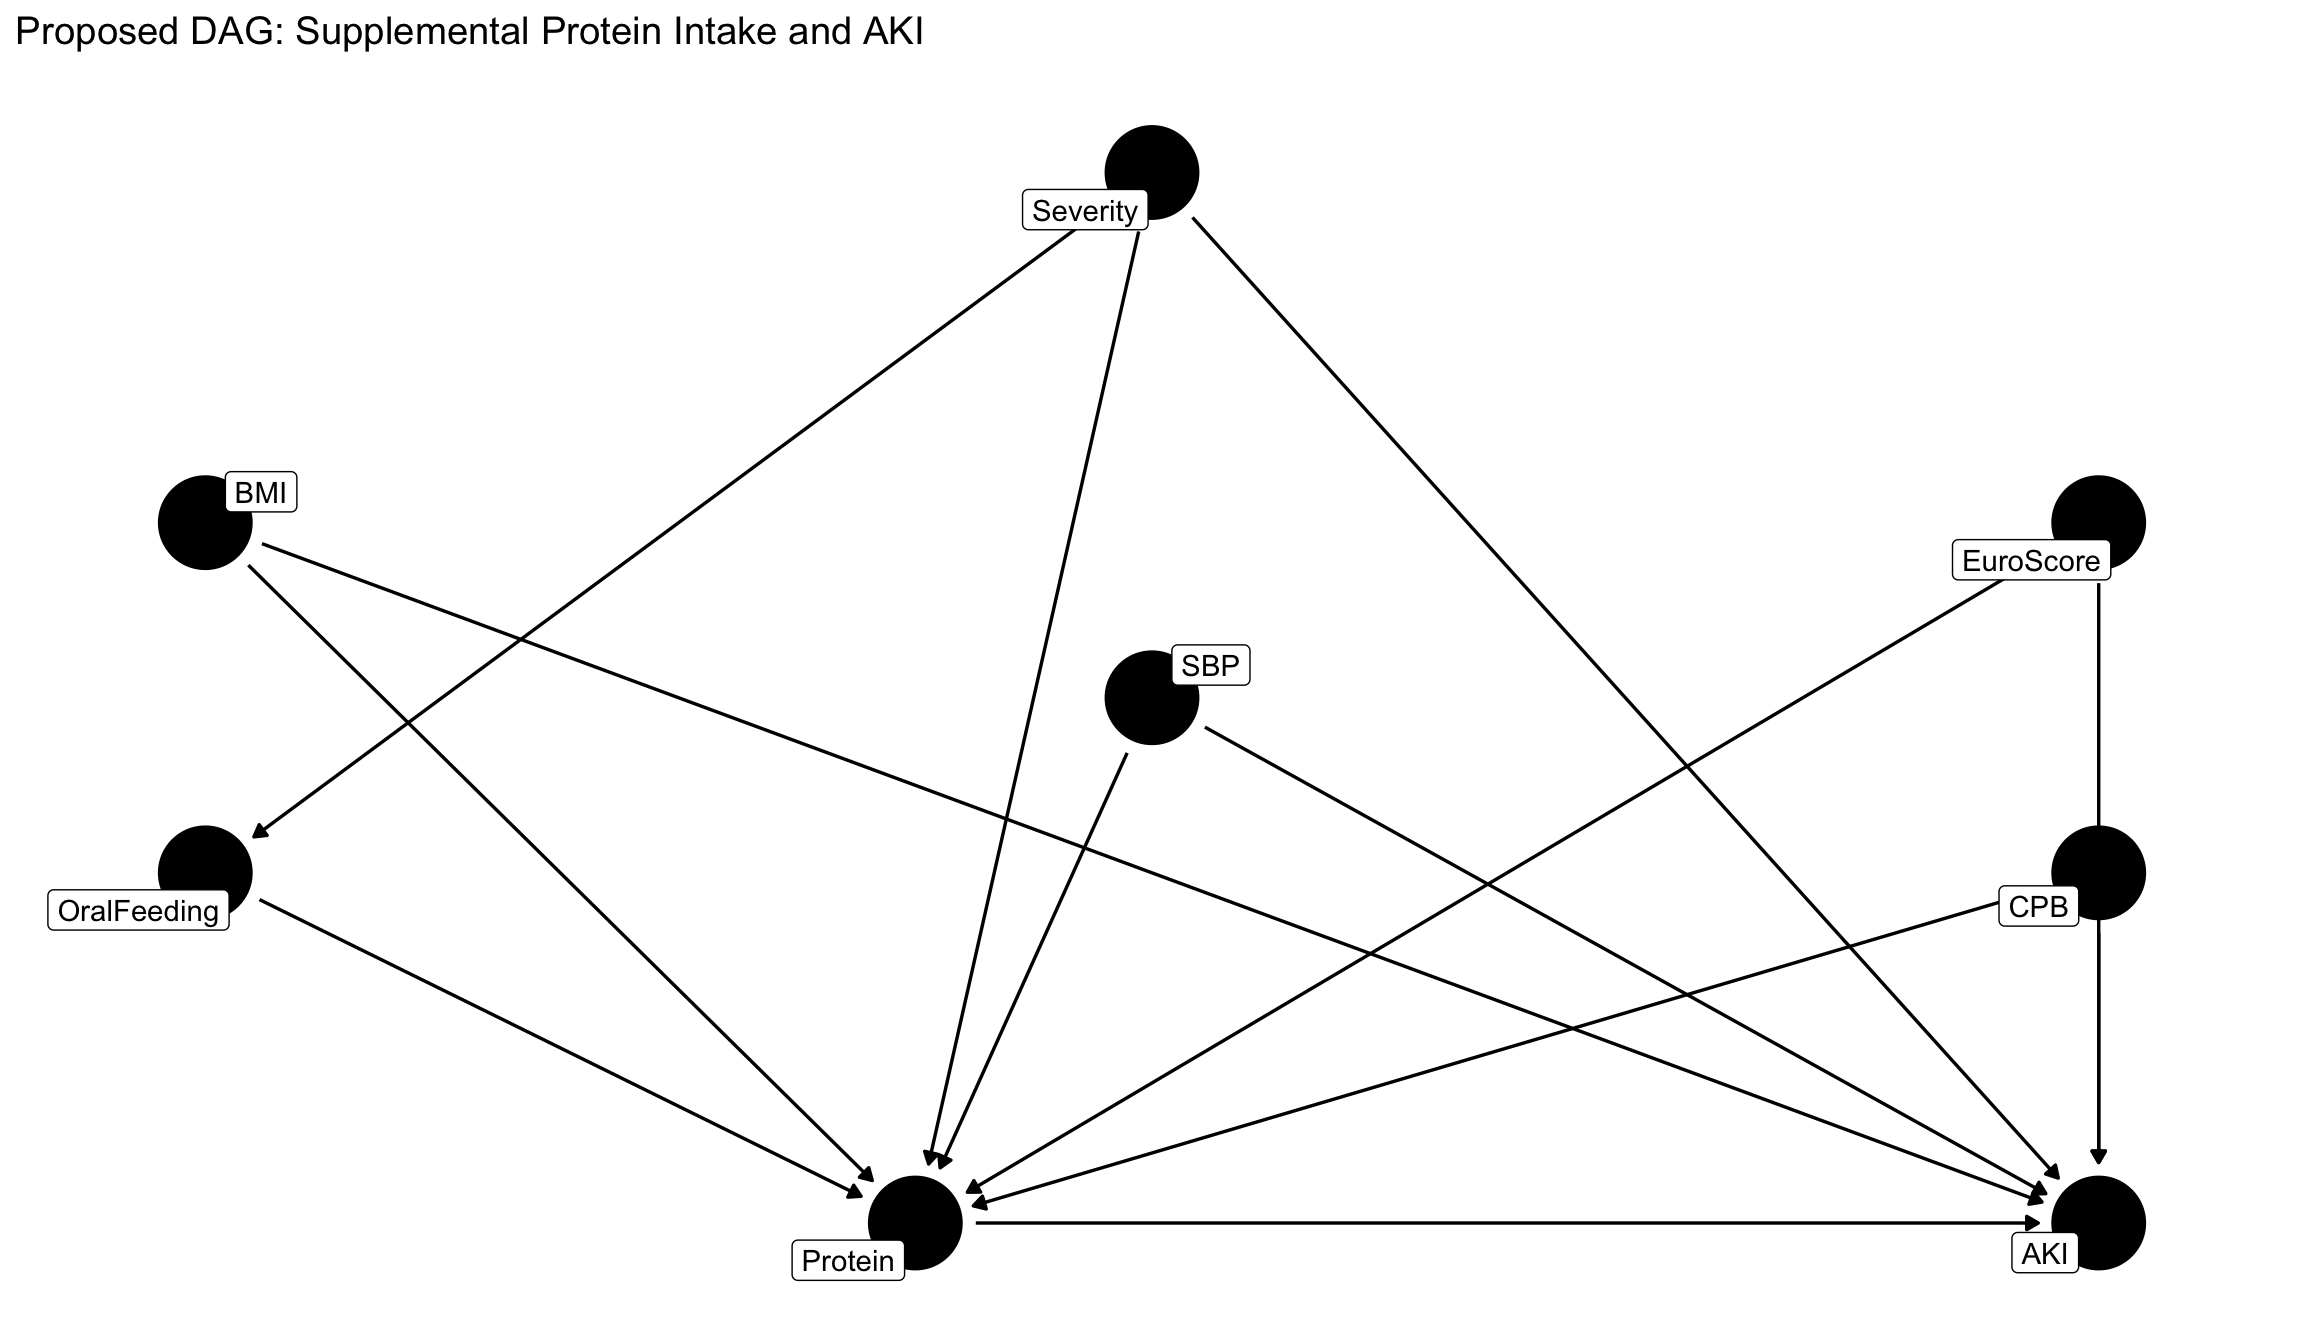
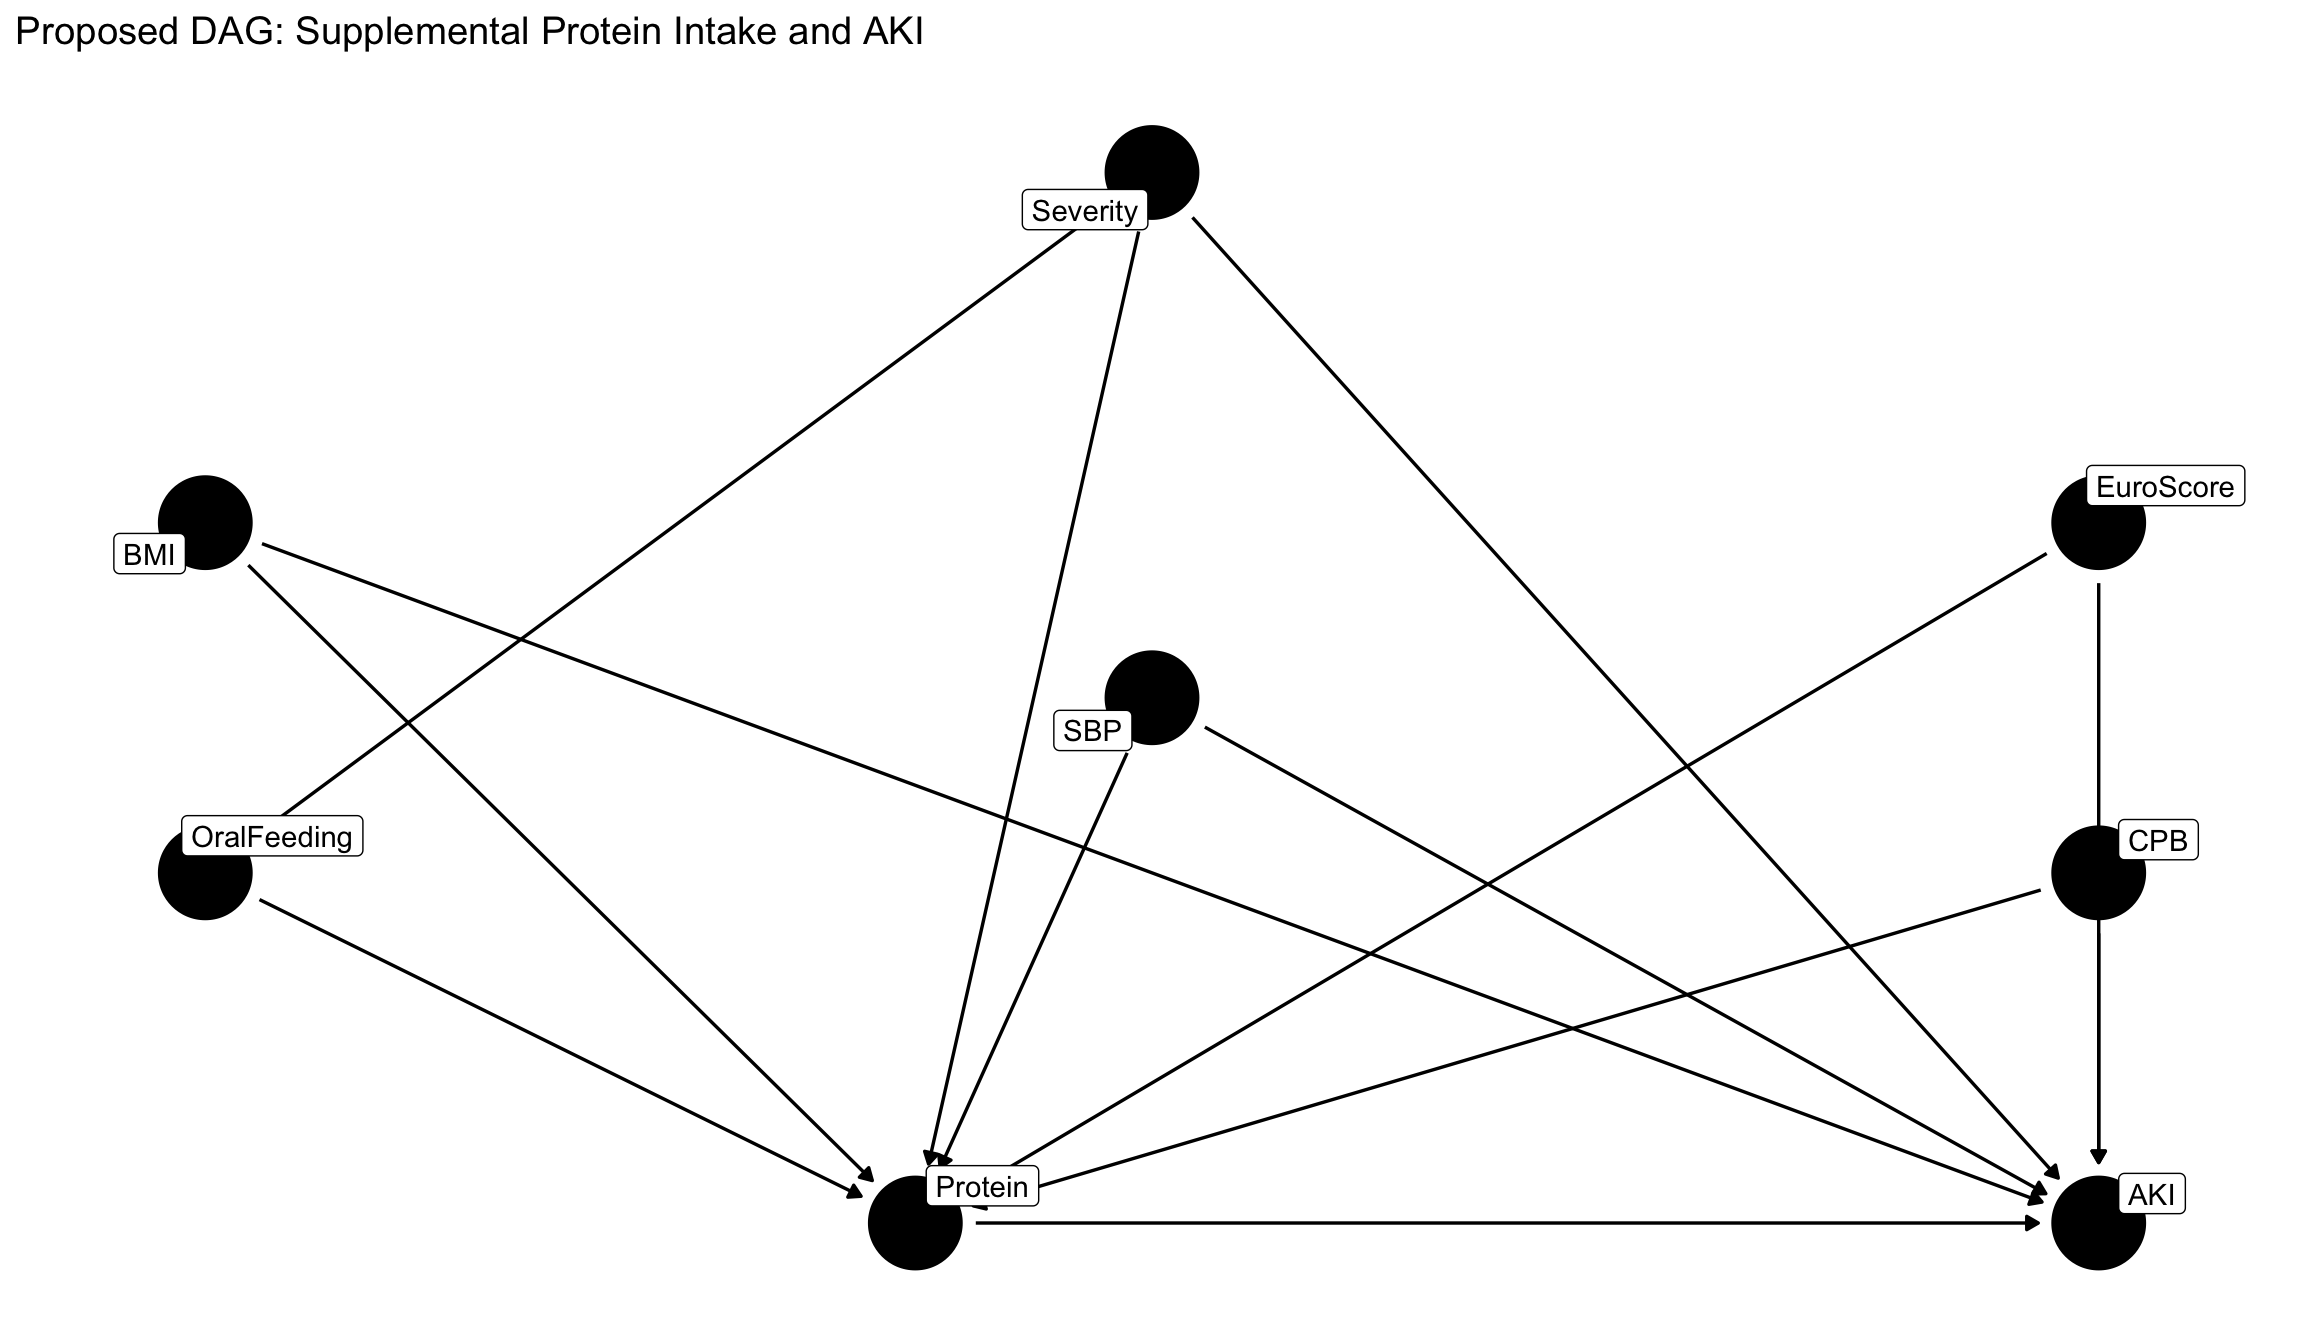
rename models and plots, move plots and add to quarto file

diff --git a/zwischenpresentation.html b/zwischenpresentation.html
@@ -223,9 +223,10 @@
 <section id="methods" class="slide level2">
 <h2>3. METHODS</h2>
 <h3 id="models">models</h3>
-<p>logistic regression</p>
-<p>(plot logistic regression model + scatter plot)</p>
-<p>multinomial model?</p>
+<h3 id="logistic-regression-unadjusted">Logistic Regression Unadjusted</h3>
+<p><img data-src="figures/311_logistic_regression_unadjusted.png"></p>
+<h3 id="logistic-regression-adjusted">Logistic Regression Adjusted</h3>
+<p><img data-src="figures/312_logistic_regression_adjusted.png"></p>
 </section>
 <section id="methods-1" class="slide level2">
 <h2>3. METHODS</h2>
